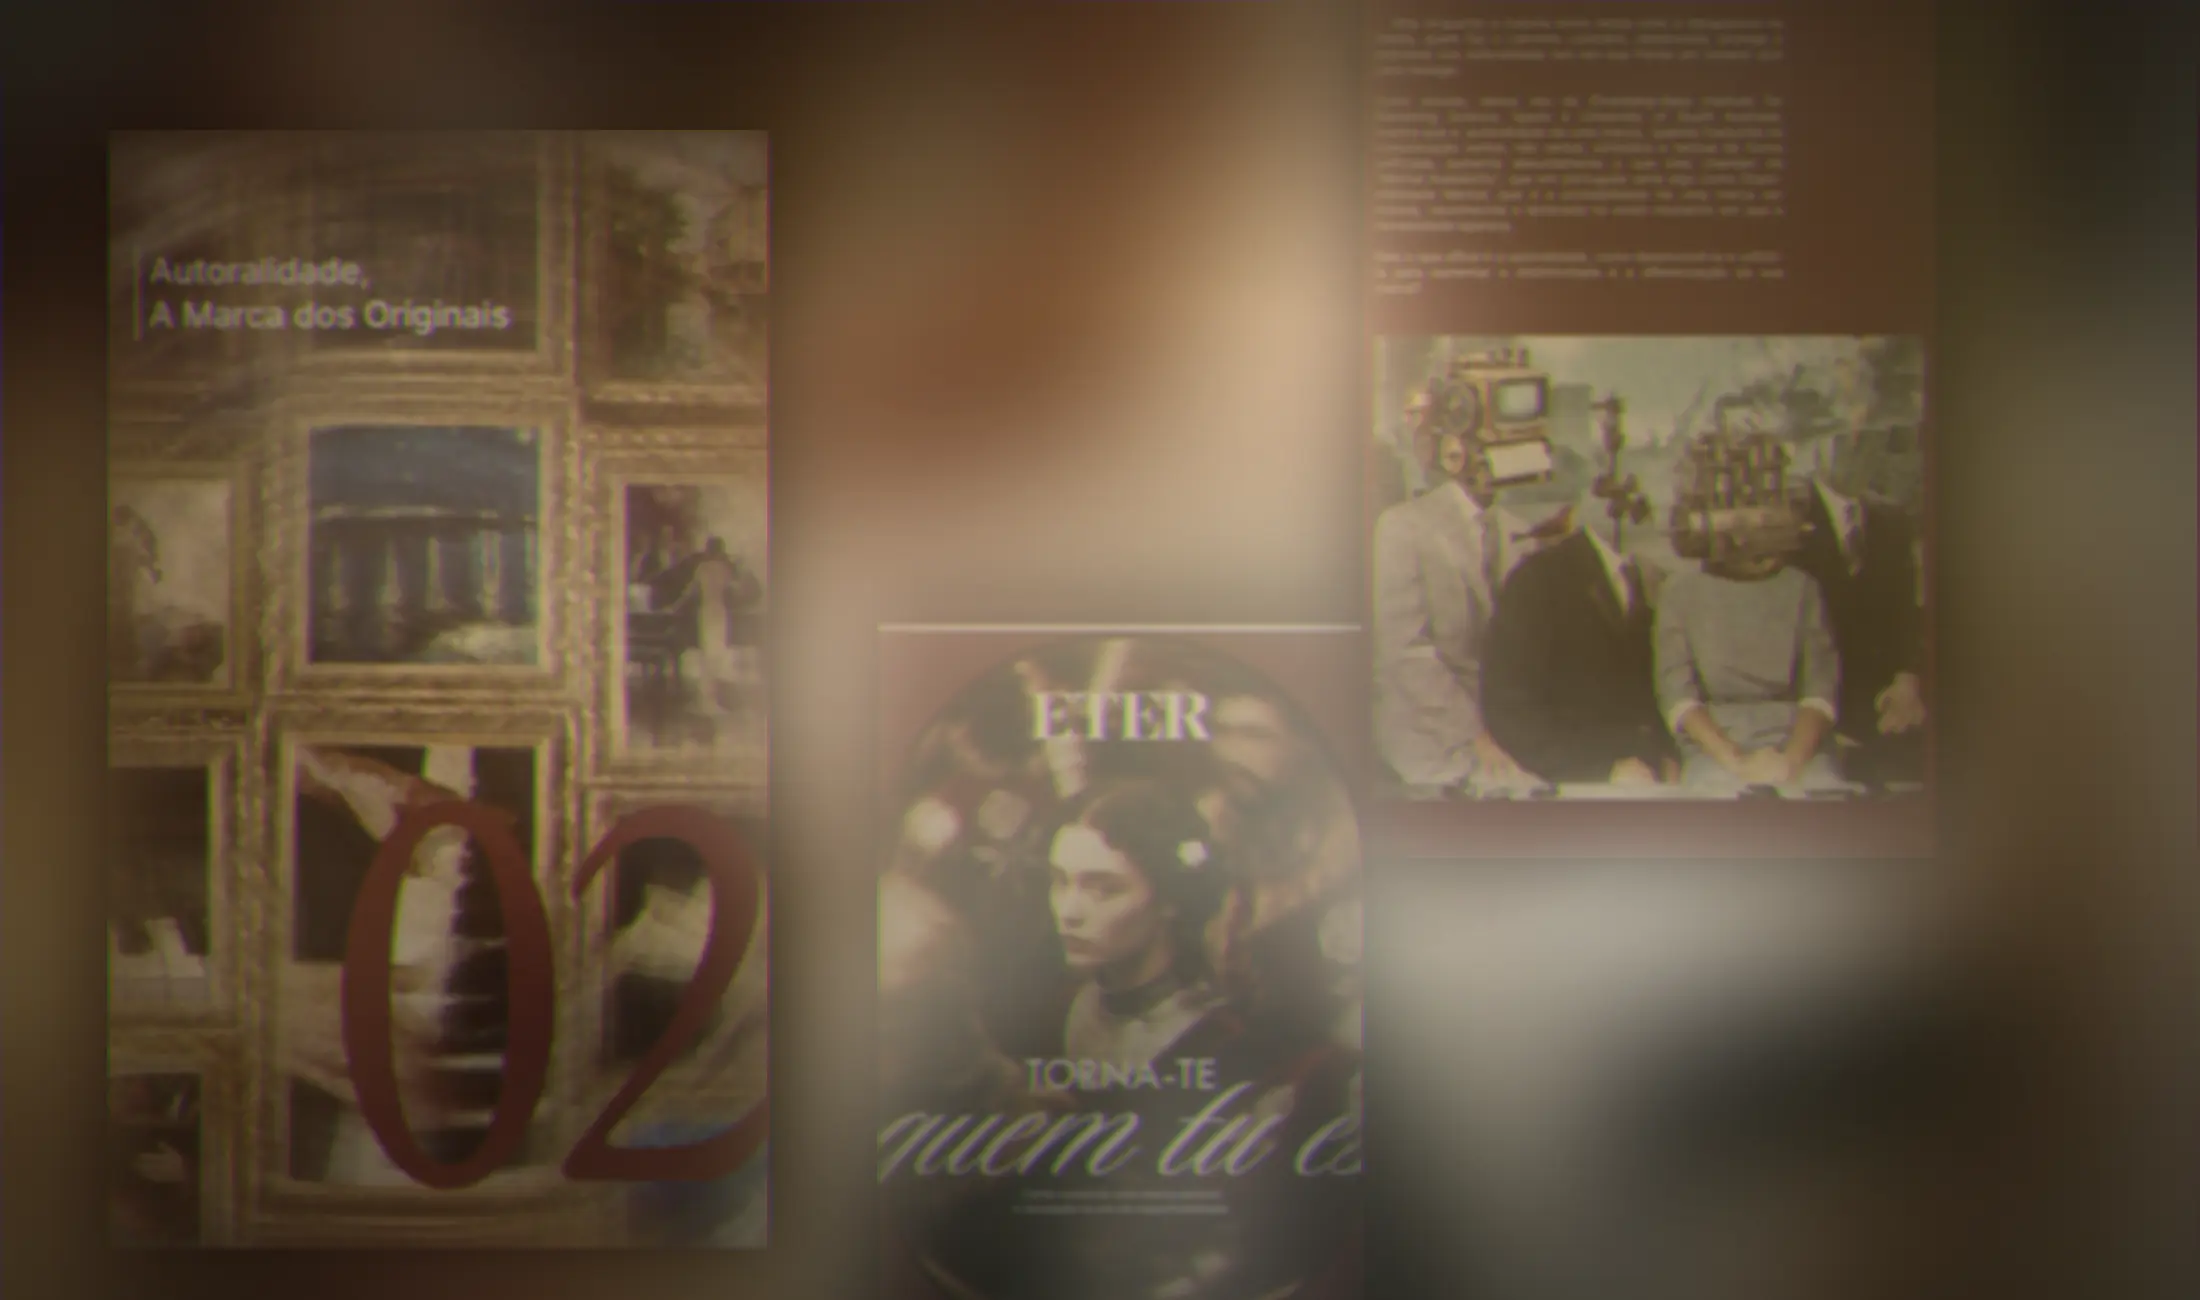
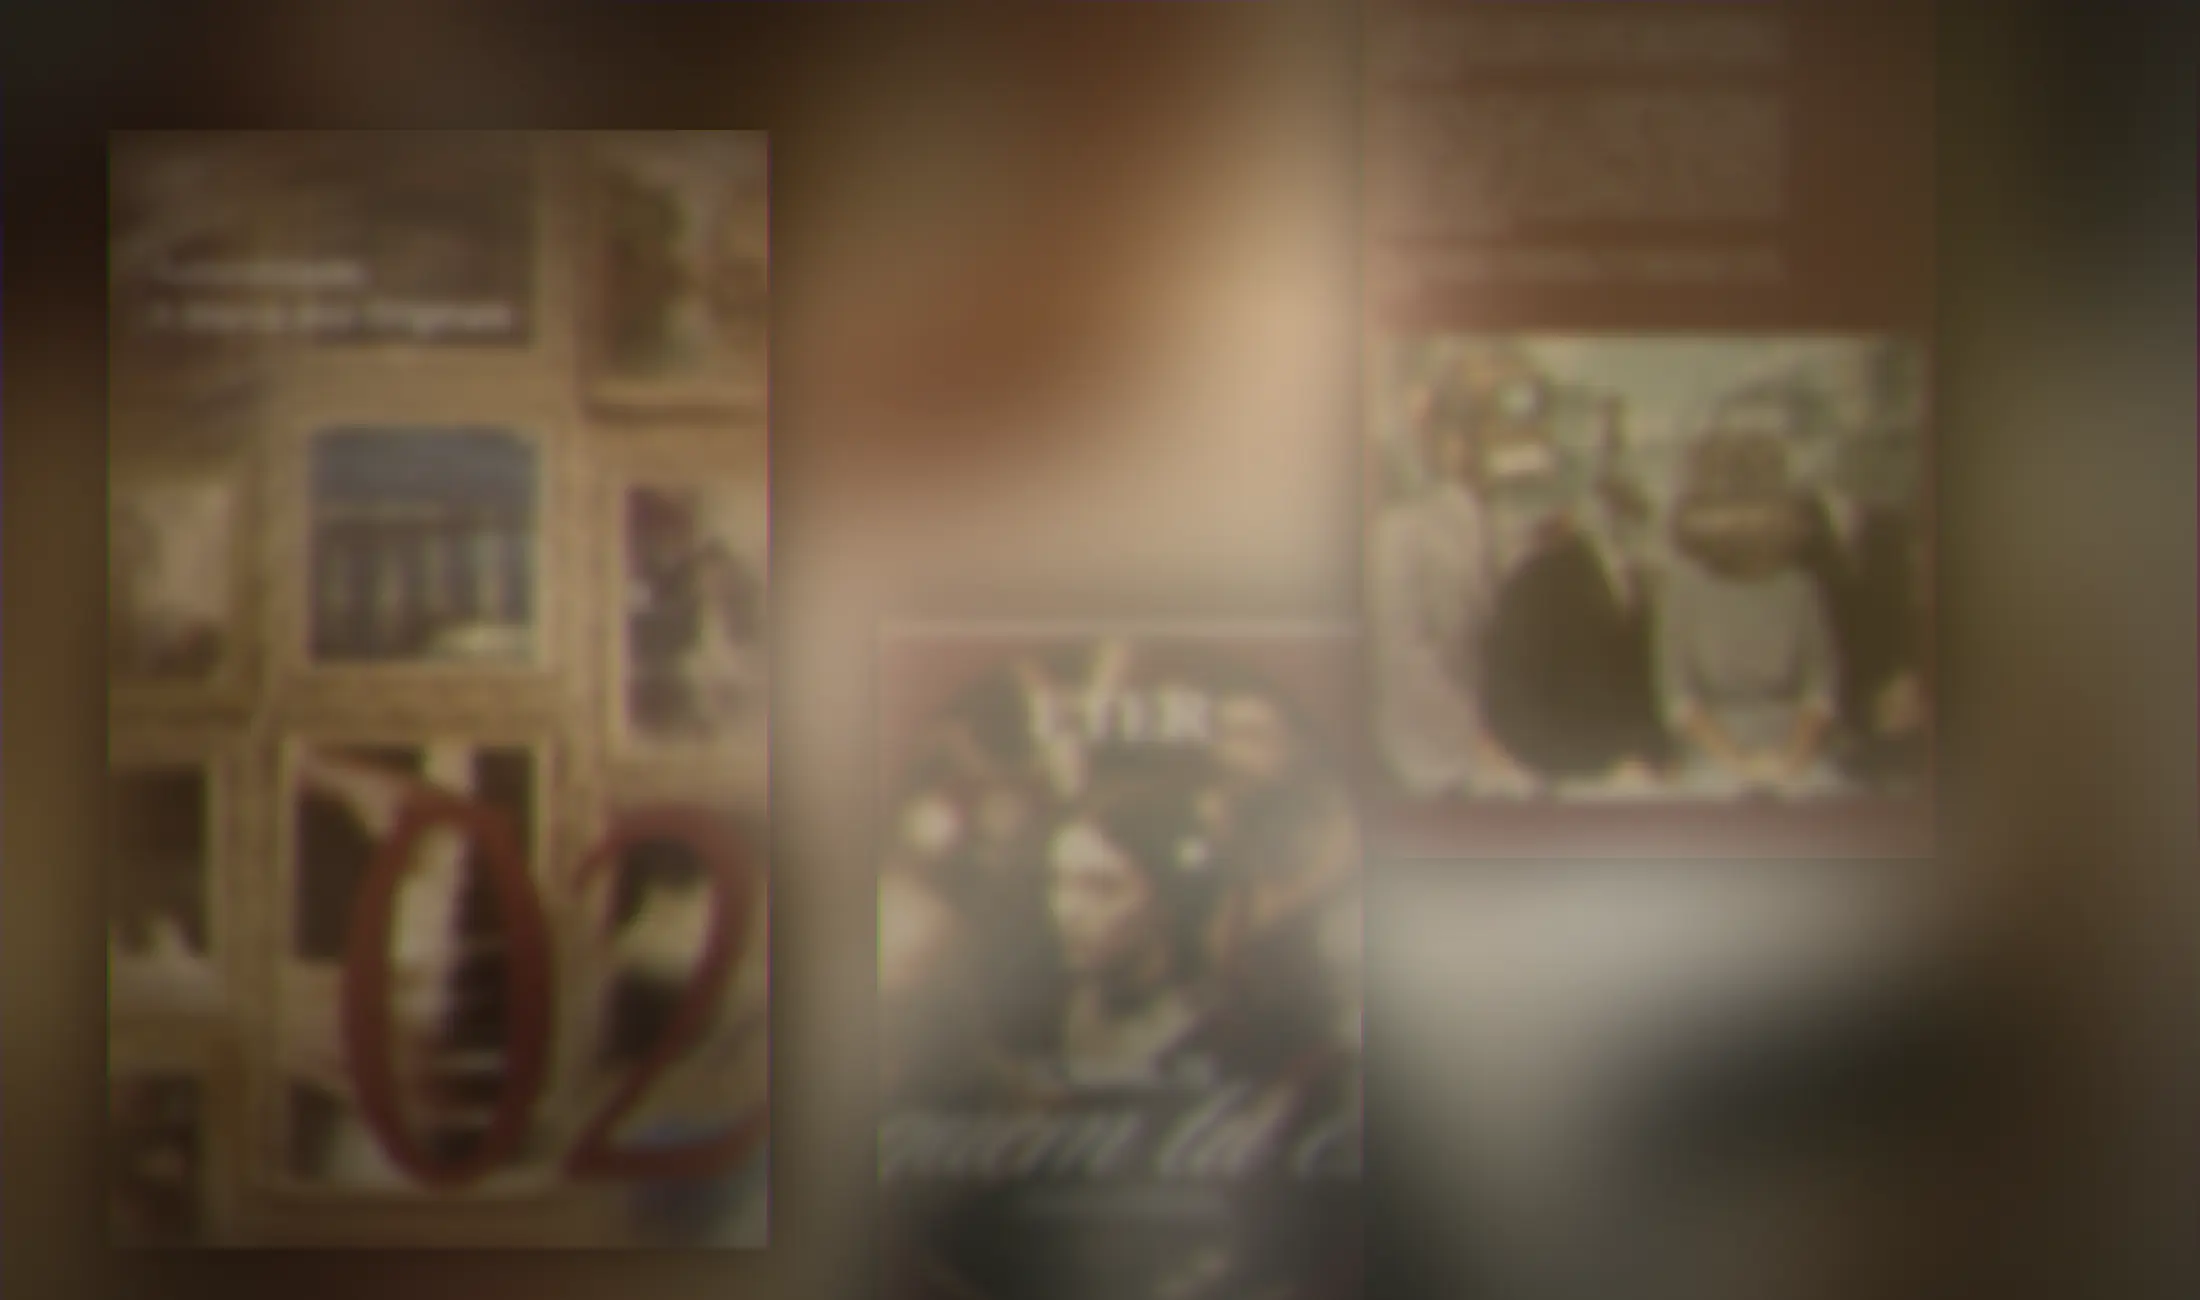
Folha mais densa, placas mais desfocadas

diff --git a/premium/premium.css b/premium/premium.css
@@ -5,9 +5,9 @@
    Duas composições de verdade: uma coluna no celular, duas no desktop.
    ═══════════════════════════════════════════════════════════════ */
 
-@font-face{font-family:'TRJN';src:url('fontes/trjn-medium.woff2?v=202608231421') format('woff2');font-weight:500;font-display:swap}
-@font-face{font-family:'Sloop';src:url('fontes/sloop.woff2?v=202608231421') format('woff2');font-weight:400;font-display:swap}
-@font-face{font-family:'FuturaE';src:url('fontes/futura-bold.woff2?v=202608231421') format('woff2');font-weight:700;font-display:swap}
+@font-face{font-family:'TRJN';src:url('fontes/trjn-medium.woff2?v=202608231424') format('woff2');font-weight:500;font-display:swap}
+@font-face{font-family:'Sloop';src:url('fontes/sloop.woff2?v=202608231424') format('woff2');font-weight:400;font-display:swap}
+@font-face{font-family:'FuturaE';src:url('fontes/futura-bold.woff2?v=202608231424') format('woff2');font-weight:700;font-display:swap}
 
 :root{
   color-scheme:light;
@@ -214,9 +214,9 @@ body.lendo .topo{display:none}
      que foi exatamente a queixa. Agora ela é translúcida sobre um desfoque
      do que está atrás: a cor e as formas da edição atravessam, e o texto
      continua sobre uma superfície uniforme o bastante para ser lido. */
-  background-color:rgb(var(--papel-rgb)/.82);
-  -webkit-backdrop-filter:blur(34px) saturate(1.15);
-  backdrop-filter:blur(34px) saturate(1.15);
+  background-color:rgb(var(--papel-rgb)/.90);
+  -webkit-backdrop-filter:blur(46px) saturate(1.1) brightness(1.06);
+  backdrop-filter:blur(46px) saturate(1.1) brightness(1.06);
   background-image:
     /* A COR DA EDIÇÃO, entrando pela dobra. Tentei tirar o matiz da capa
        por amostragem e o resultado foi honesto demais para usar: sete das
@@ -228,9 +228,9 @@ body.lendo .topo{display:none}
        fica como reforço — na ED004, a única vermelha, ele aparece. */
     linear-gradient(90deg,
       rgb(var(--papel-rgb)/0) 0%,
-      rgb(var(--papel-rgb)/.09) 9%,
-      rgb(var(--papel-rgb)/.15) 20%,
-      rgb(var(--papel-rgb)/.15) 100%),
+      rgb(var(--papel-rgb)/.04) 6%,
+      rgb(var(--papel-rgb)/.07) 16%,
+      rgb(var(--papel-rgb)/.07) 100%),
     linear-gradient(103deg,
       hsl(var(--cor-edicao-h,40) 46% 46% / .10) 0%,
       hsl(var(--cor-edicao-h,40) 46% 46% / .04) 20%,

diff --git a/demo/index.html b/demo/index.html
@@ -11,8 +11,8 @@
 <link rel="preconnect" href="https://fonts.googleapis.com">
 <link rel="preconnect" href="https://fonts.gstatic.com" crossorigin>
 <link rel="stylesheet" href="https://fonts.googleapis.com/css2?family=Inter:wght@400;500;600;700&display=swap">
-<link rel="stylesheet" href="../premium/premium.css?v=202608231421">
-  <link rel="stylesheet" href="../premium/estetica-v2.css?v=202608231421">
+<link rel="stylesheet" href="../premium/premium.css?v=202608231424">
+  <link rel="stylesheet" href="../premium/estetica-v2.css?v=202608231424">
   <meta name="theme-color" content="#FFFBF3">
 </head>
 <body>
@@ -223,6 +223,6 @@
    motor ler o endereço */
 if (!location.search.includes('ed=')) history.replaceState(null, '', '?ed=007' + location.hash);
 </script>
-<script src="../premium/premium.js?v=202608231421"></script>
+<script src="../premium/premium.js?v=202608231424"></script>
 </body>
 </html>

diff --git a/assinatura-anual/index.html b/assinatura-anual/index.html
@@ -6,7 +6,7 @@
 <title>Complete o ano — Revista ETER</title>
 <meta name="robots" content="noindex">
 <meta name="theme-color" content="#F2EEE6">
-<link rel="stylesheet" href="../premium/premium.css?v=202608231421">
+<link rel="stylesheet" href="../premium/premium.css?v=202608231424">
 </head>
 <body class="pagina">
 
@@ -87,7 +87,7 @@
 
   let c;
   try {
-    c = (await (await fetch('../edicoes.json?v=202608231421')).json()).config;
+    c = (await (await fetch('../edicoes.json?v=202608231424')).json()).config;
   } catch (err) {
     console.warn('[eter] catálogo indisponível', err);
     return naoDeu('Não conseguimos carregar a oferta agora. Recarregue a página — seu passe está ativo de qualquer forma.');

diff --git a/privacidade/index.html b/privacidade/index.html
@@ -6,7 +6,7 @@
 <title>Política de Privacidade — Revista ETER</title>
 <meta name="robots" content="noindex">
 <meta name="theme-color" content="#F2EEE6">
-<link rel="stylesheet" href="../premium/premium.css?v=202608231421">
+<link rel="stylesheet" href="../premium/premium.css?v=202608231424">
 </head>
 <body class="pagina">
 
@@ -106,7 +106,7 @@
    para o Davi — nunca um colchete cru para o leitor. */
 (async () => {
   try {
-    const cfg = (await (await fetch('../edicoes.json?v=202608231421')).json()).config || {};
+    const cfg = (await (await fetch('../edicoes.json?v=202608231424')).json()).config || {};
     const e = cfg.empresa || {};
     const falta = t => `<span class="aguardando">${t}</span>`;
 

diff --git a/assinatura-anual.html b/assinatura-anual.html
@@ -6,7 +6,7 @@
 <title>Complete o ano — Revista ETER</title>
 <meta name="robots" content="noindex">
 <meta name="theme-color" content="#F2EEE6">
-<link rel="stylesheet" href="premium/premium.css?v=202608231421">
+<link rel="stylesheet" href="premium/premium.css?v=202608231424">
 </head>
 <body class="pagina">
 
@@ -87,7 +87,7 @@
 
   let c;
   try {
-    c = (await (await fetch('edicoes.json?v=202608231421')).json()).config;
+    c = (await (await fetch('edicoes.json?v=202608231424')).json()).config;
   } catch (err) {
     console.warn('[eter] catálogo indisponível', err);
     return naoDeu('Não conseguimos carregar a oferta agora. Recarregue a página — seu passe está ativo de qualquer forma.');

diff --git a/privacidade.html b/privacidade.html
@@ -6,7 +6,7 @@
 <title>Política de Privacidade — Revista ETER</title>
 <meta name="robots" content="noindex">
 <meta name="theme-color" content="#F2EEE6">
-<link rel="stylesheet" href="premium/premium.css?v=202608231421">
+<link rel="stylesheet" href="premium/premium.css?v=202608231424">
 </head>
 <body class="pagina">
 
@@ -106,7 +106,7 @@
    para o Davi — nunca um colchete cru para o leitor. */
 (async () => {
   try {
-    const cfg = (await (await fetch('edicoes.json?v=202608231421')).json()).config || {};
+    const cfg = (await (await fetch('edicoes.json?v=202608231424')).json()).config || {};
     const e = cfg.empresa || {};
     const falta = t => `<span class="aguardando">${t}</span>`;
 

diff --git a/001/index.html b/001/index.html
@@ -11,7 +11,7 @@
 <link rel="preconnect" href="https://fonts.googleapis.com">
 <link rel="preconnect" href="https://fonts.gstatic.com" crossorigin>
 <link rel="stylesheet" href="https://fonts.googleapis.com/css2?family=Inter:wght@400;500;600;700&display=swap">
-<link rel="stylesheet" href="../premium/premium.css?v=202608231421">
+<link rel="stylesheet" href="../premium/premium.css?v=202608231424">
 </head>
 <body>
 
@@ -212,6 +212,6 @@
   </div>
 </dialog>
 
-<script src="../premium/premium.js?v=202608231421"></script>
+<script src="../premium/premium.js?v=202608231424"></script>
 </body>
 </html>

diff --git a/002/index.html b/002/index.html
@@ -11,7 +11,7 @@
 <link rel="preconnect" href="https://fonts.googleapis.com">
 <link rel="preconnect" href="https://fonts.gstatic.com" crossorigin>
 <link rel="stylesheet" href="https://fonts.googleapis.com/css2?family=Inter:wght@400;500;600;700&display=swap">
-<link rel="stylesheet" href="../premium/premium.css?v=202608231421">
+<link rel="stylesheet" href="../premium/premium.css?v=202608231424">
 </head>
 <body>
 
@@ -212,6 +212,6 @@
   </div>
 </dialog>
 
-<script src="../premium/premium.js?v=202608231421"></script>
+<script src="../premium/premium.js?v=202608231424"></script>
 </body>
 </html>

diff --git a/003/index.html b/003/index.html
@@ -11,7 +11,7 @@
 <link rel="preconnect" href="https://fonts.googleapis.com">
 <link rel="preconnect" href="https://fonts.gstatic.com" crossorigin>
 <link rel="stylesheet" href="https://fonts.googleapis.com/css2?family=Inter:wght@400;500;600;700&display=swap">
-<link rel="stylesheet" href="../premium/premium.css?v=202608231421">
+<link rel="stylesheet" href="../premium/premium.css?v=202608231424">
 </head>
 <body>
 
@@ -212,6 +212,6 @@
   </div>
 </dialog>
 
-<script src="../premium/premium.js?v=202608231421"></script>
+<script src="../premium/premium.js?v=202608231424"></script>
 </body>
 </html>

diff --git a/004/index.html b/004/index.html
@@ -11,7 +11,7 @@
 <link rel="preconnect" href="https://fonts.googleapis.com">
 <link rel="preconnect" href="https://fonts.gstatic.com" crossorigin>
 <link rel="stylesheet" href="https://fonts.googleapis.com/css2?family=Inter:wght@400;500;600;700&display=swap">
-<link rel="stylesheet" href="../premium/premium.css?v=202608231421">
+<link rel="stylesheet" href="../premium/premium.css?v=202608231424">
 </head>
 <body>
 
@@ -212,6 +212,6 @@
   </div>
 </dialog>
 
-<script src="../premium/premium.js?v=202608231421"></script>
+<script src="../premium/premium.js?v=202608231424"></script>
 </body>
 </html>

diff --git a/005/index.html b/005/index.html
@@ -11,7 +11,7 @@
 <link rel="preconnect" href="https://fonts.googleapis.com">
 <link rel="preconnect" href="https://fonts.gstatic.com" crossorigin>
 <link rel="stylesheet" href="https://fonts.googleapis.com/css2?family=Inter:wght@400;500;600;700&display=swap">
-<link rel="stylesheet" href="../premium/premium.css?v=202608231421">
+<link rel="stylesheet" href="../premium/premium.css?v=202608231424">
 </head>
 <body>
 
@@ -212,6 +212,6 @@
   </div>
 </dialog>
 
-<script src="../premium/premium.js?v=202608231421"></script>
+<script src="../premium/premium.js?v=202608231424"></script>
 </body>
 </html>

diff --git a/006/index.html b/006/index.html
@@ -11,7 +11,7 @@
 <link rel="preconnect" href="https://fonts.googleapis.com">
 <link rel="preconnect" href="https://fonts.gstatic.com" crossorigin>
 <link rel="stylesheet" href="https://fonts.googleapis.com/css2?family=Inter:wght@400;500;600;700&display=swap">
-<link rel="stylesheet" href="../premium/premium.css?v=202608231421">
+<link rel="stylesheet" href="../premium/premium.css?v=202608231424">
 </head>
 <body>
 
@@ -212,6 +212,6 @@
   </div>
 </dialog>
 
-<script src="../premium/premium.js?v=202608231421"></script>
+<script src="../premium/premium.js?v=202608231424"></script>
 </body>
 </html>
